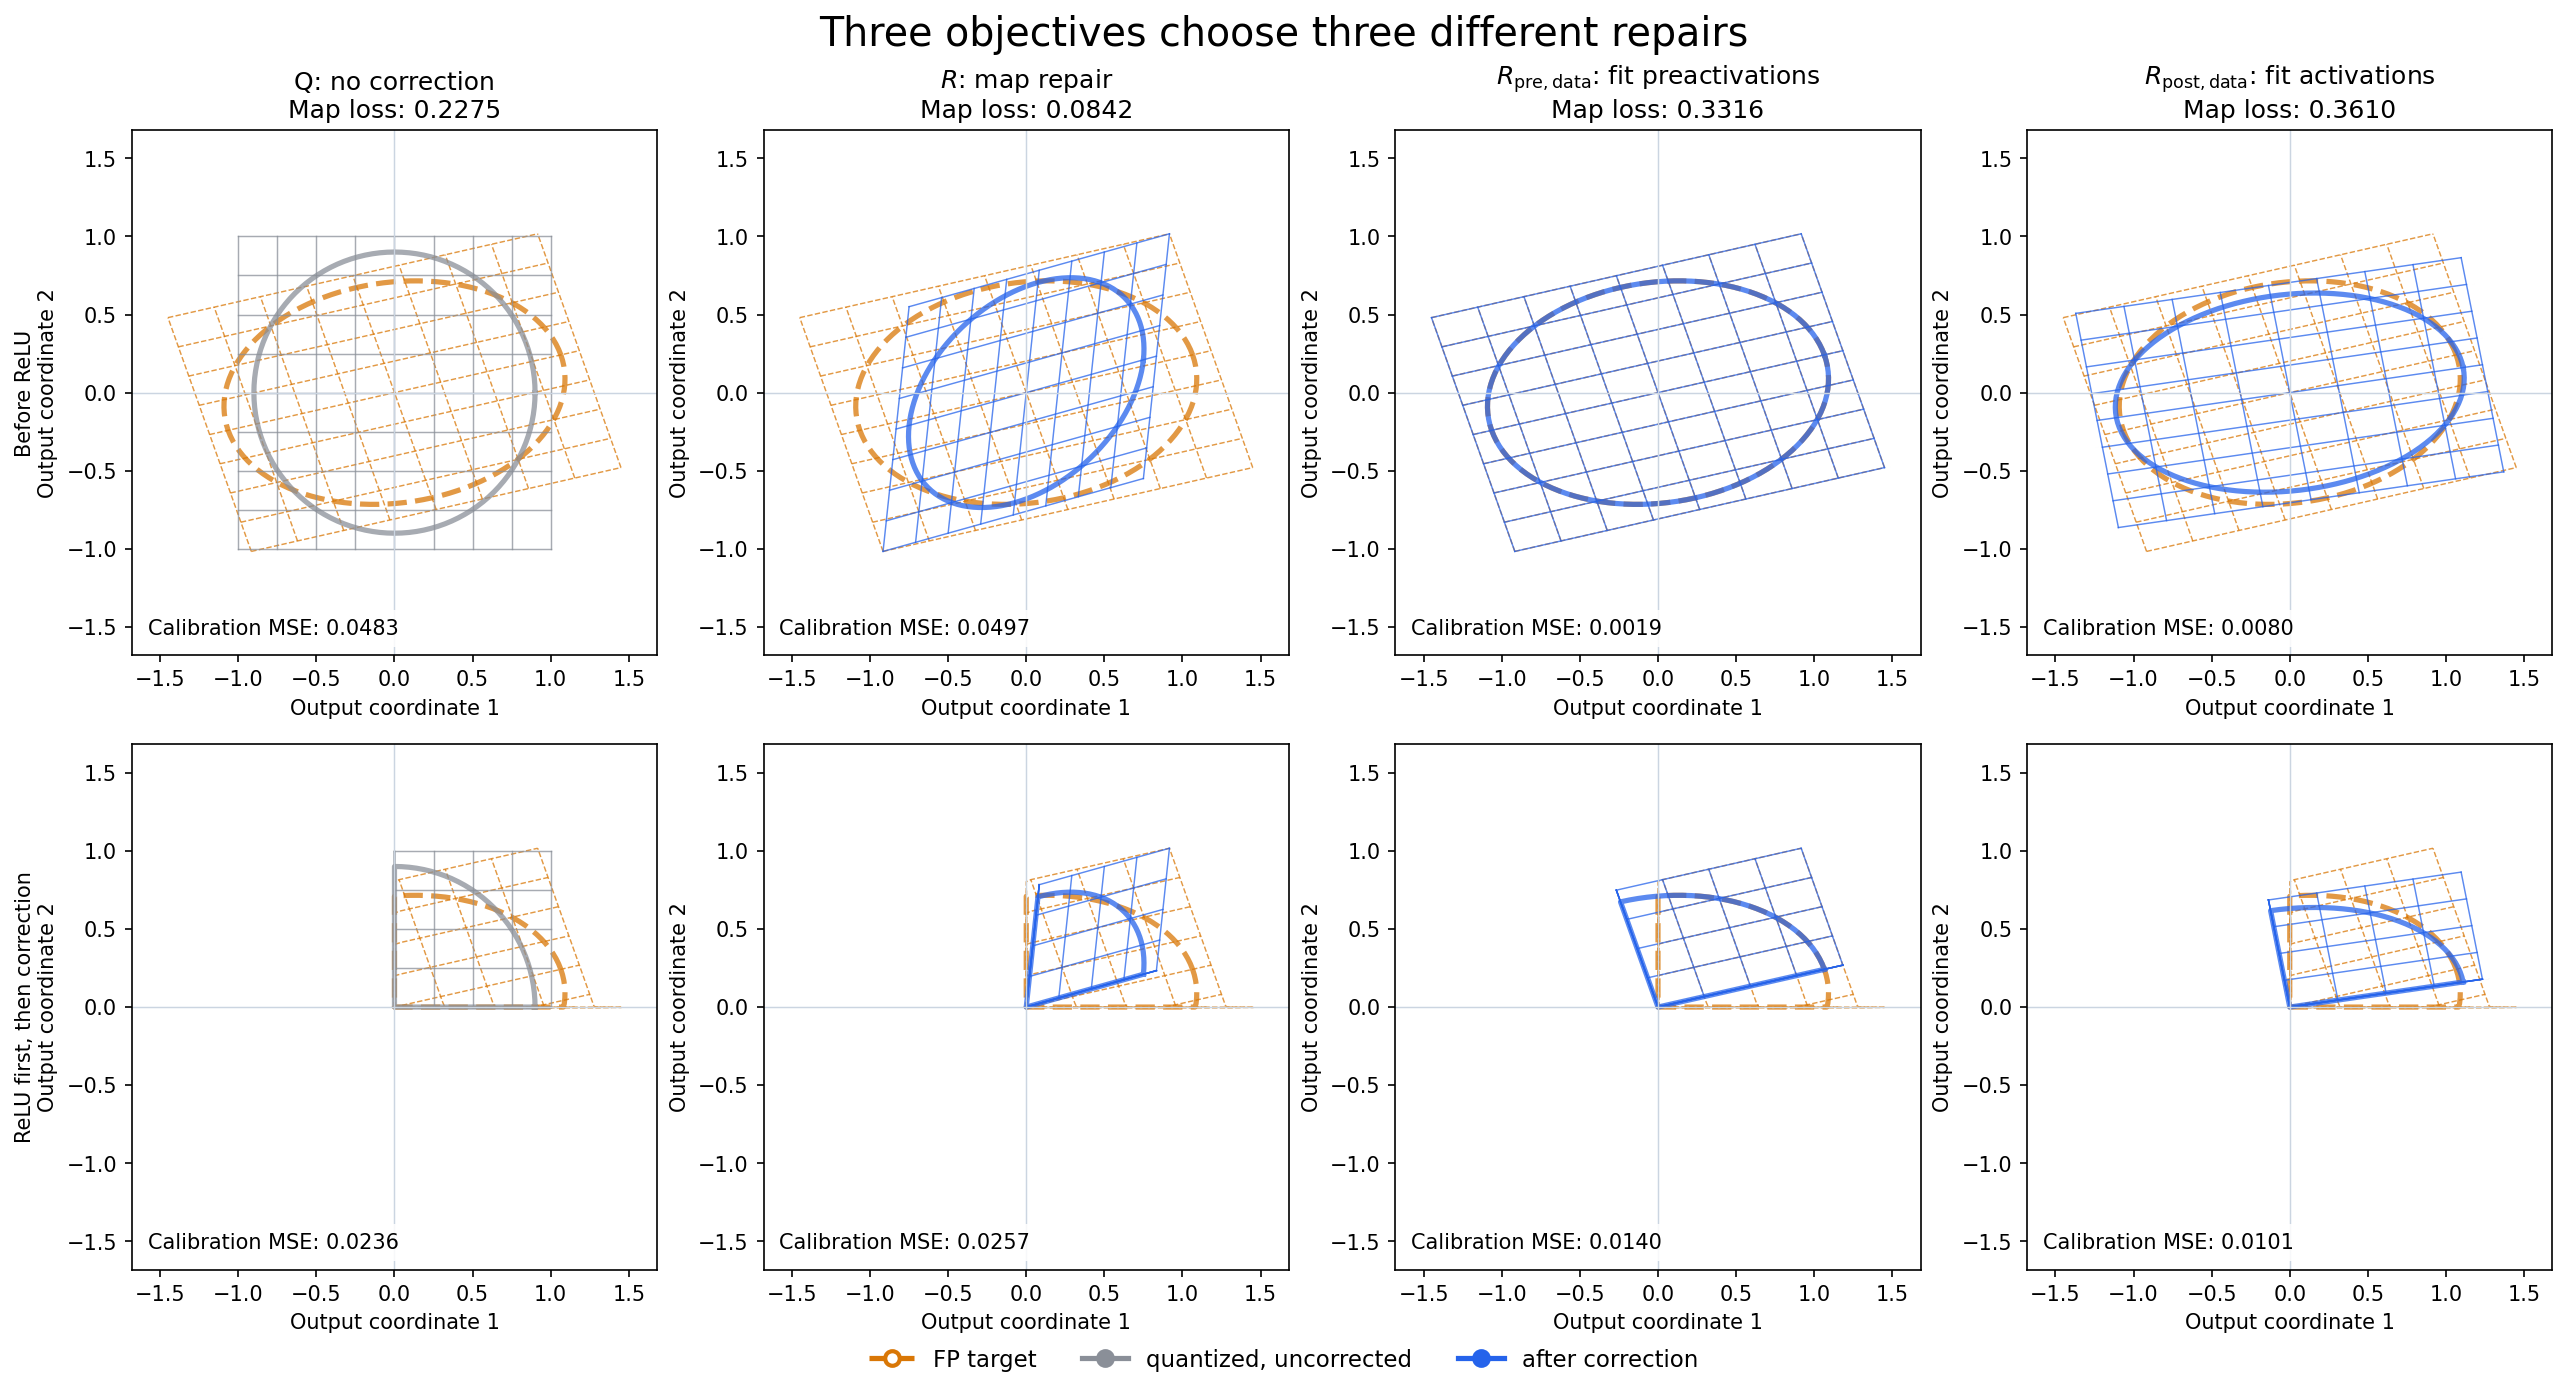
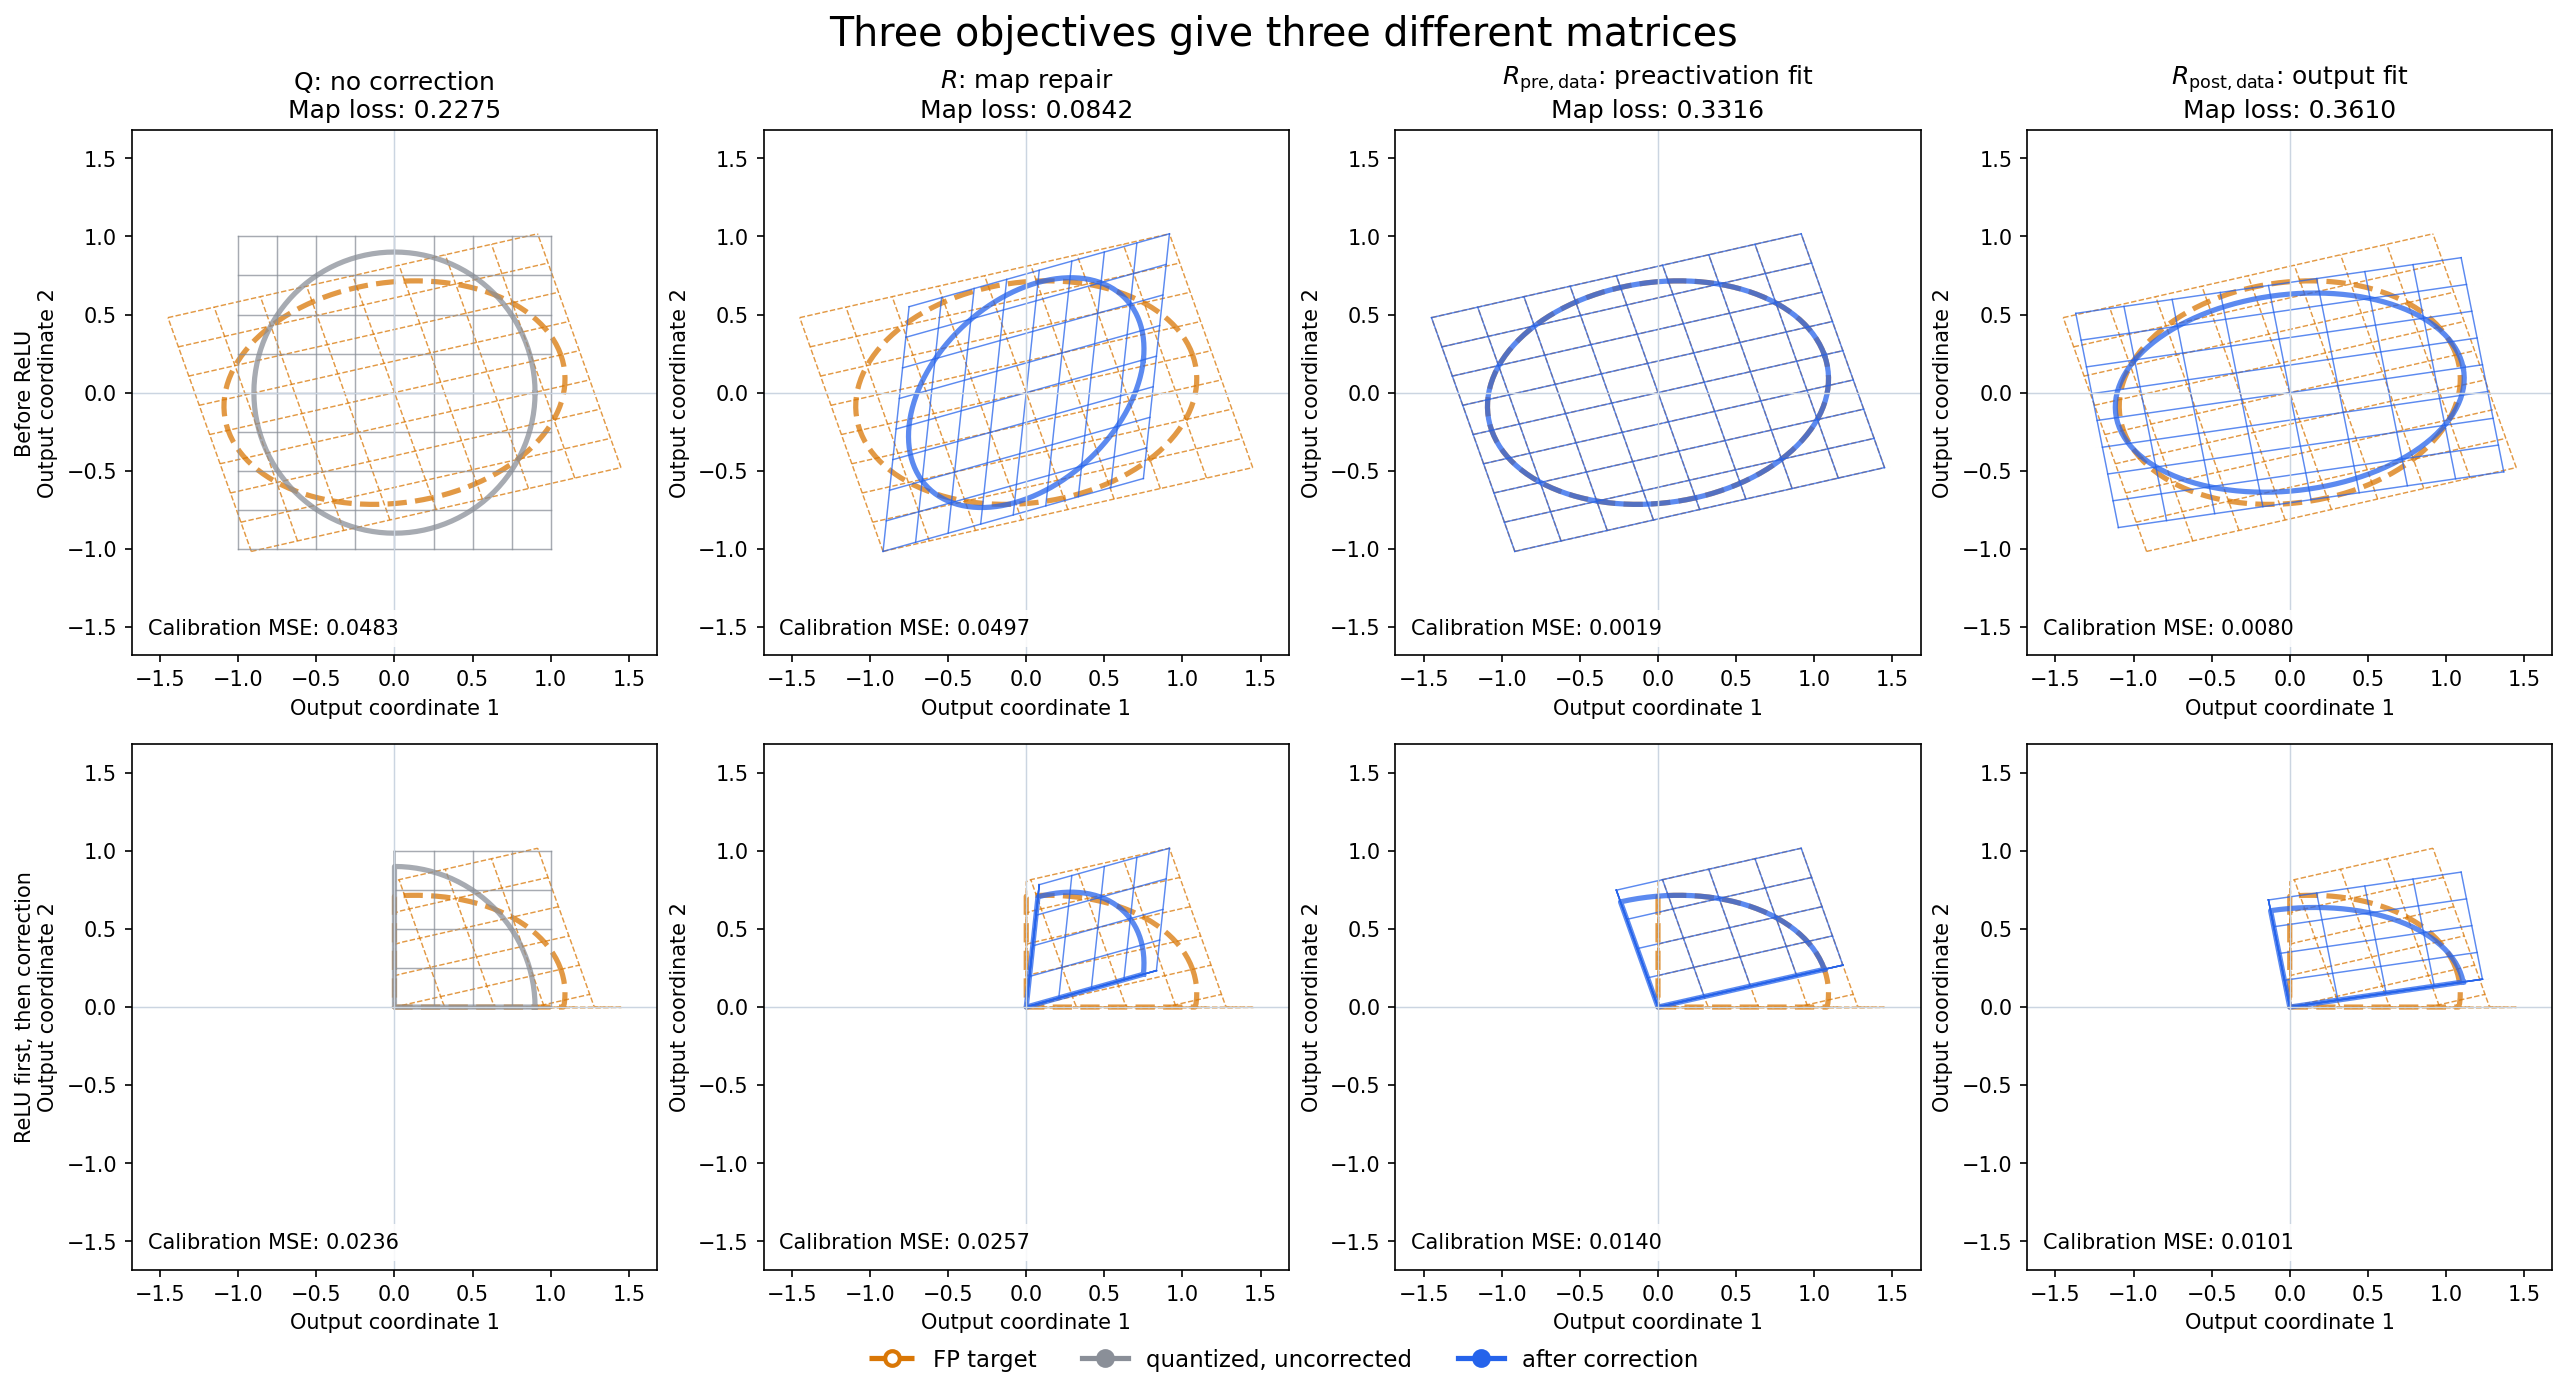
Name the two data fits preactivation fit and output fit everywhere

Changed region(s): [[0.3116, 0.0, 0.7168, 0.0618], [0.8414, 0.0309, 0.9349, 0.0618]]

diff --git a/experiments/quant_geometry_reconstruction_comparison.py b/experiments/quant_geometry_reconstruction_comparison.py
@@ -68,9 +68,9 @@ def main():
     center, radius = (low+high)/2, max(high-low)*.58
     bounds = tuple((c-radius, c+radius) for c in center)
     fig, axes = plt.subplots(2, 4, figsize=(17, 9.2), constrained_layout=True)
-    fig.suptitle("Three objectives choose three different repairs", fontsize=19)
+    fig.suptitle("Three objectives give three different matrices", fontsize=19)
     labels = ["Q: no correction", r"$R$: map repair",
-              r"$R_{\rm pre,data}$: fit preactivations", r"$R_{\rm post,data}$: fit activations"]
+              r"$R_{\rm pre,data}$: preactivation fit", r"$R_{\rm post,data}$: output fit"]
     for row, states in enumerate(rows):
         for column, state in enumerate(states):
             ax = axes[row, column]

diff --git a/docs/quant_geometry_foundations.md b/docs/quant_geometry_foundations.md
@@ -229,7 +229,7 @@ $c_{\rm local}$ is the Section 6 ledger applied to the input the layer actually 
 
 ## 9. Comparison: fitting a correction to calibration data
 
-The ledger chooses $R$ from the weights alone. The usual alternative fits a correction to the errors observed on a calibration set $\mathcal D$. With the same full-precision linear correction and the same layer $W_2$, two such fits are
+The ledger chooses $R$ from the weights alone. The usual alternative fits a correction to the errors observed on a calibration set $\mathcal D$. With the same full-precision linear correction and the same layer $W_2$, the two natural choices are the **preactivation fit** and the **output fit**:
 
 $$
 R_{\rm pre,data}\in\operatorname{argmin}_R\sum_{x\in\mathcal D}\|xW_qR-xW\|^2,\qquad
@@ -239,12 +239,12 @@ $$
 | Correction | Objective | What it uses |
 |---|---|---|
 | $R$ (map repair) | $\lVert W-W_qR\rVert_F^2$ | the weights alone; every input direction weighted equally |
-| $R_{\rm pre,data}$ | preactivation error on $\mathcal D$ | the input distribution and its correlations |
-| $R_{\rm post,data}$ | output error on $\mathcal D$ | the outputs after ReLU, and whatever correlations survive ReLU |
+| $R_{\rm pre,data}$ (preactivation fit) | preactivation error on $\mathcal D$ | the input distribution and its correlations |
+| $R_{\rm post,data}$ (output fit) | output error on $\mathcal D$ | the outputs after ReLU, and whatever correlations survive ReLU |
 
-All three are least-squares fits, but they answer different questions. The data fits find the matrix that best reproduces FP outputs on this data. They do not say which part of the quantization error that matrix removes, and their loss cannot tell you.
+All three are least-squares fits, but they answer different questions. The two data fits find the matrix that best reproduces FP outputs on this data. They do not say which part of the quantization error that matrix removes, and their loss cannot tell you.
 
-![Four columns compare Q, map repair, preactivation data fit, and output data fit, before and after ReLU](figures/quant_geometry/geometry_repair_vs_reconstruction.png)
+![Four columns compare Q, map repair, preactivation fit, and output fit, before and after ReLU](figures/quant_geometry/geometry_repair_vs_reconstruction.png)
 
 **Figure 9 — three objectives give three different matrices.** The columns show Q with no correction, then the three fitted matrices. The top row applies each matrix to the quantized preactivation; the bottom row applies it to the quantized output after ReLU. The calibration inputs are correlated with the flattened direction $d$ (construction in [B.6](#b6-calibration-set-for-figure-9)), so on this data the FP output along $d$ can be partly predicted from the quantized output. The grid and circle show a subset of the inputs; the fits use the full calibration set.
 
@@ -254,8 +254,8 @@ On this example:
 |---|---|---|
 | Q, no correction | 0.228 | 0.0236 |
 | $R$ (map repair) | **0.084** | 0.0257 |
-| $R_{\rm pre,data}$ | 0.332 | 0.0140 |
-| $R_{\rm post,data}$ | 0.361 | **0.0101** |
+| $R_{\rm pre,data}$ (preactivation fit) | 0.332 | 0.0140 |
+| $R_{\rm post,data}$ (output fit) | 0.361 | **0.0101** |
 
 The output fit has the lowest calibration error, yet its corrected map $W_qR_{\rm post,data}$ is **further from $W$ than $W_q$ is**. It does not undo the quantization error. It finds a different matrix, which uses correlations in this calibration set to predict the FP output, including the part along the direction $W_q$ flattens. That prediction only holds as long as those correlations do. The map repair is the reverse: it is the closest to $W$, but on this calibration set it does slightly worse than no correction, both before ReLU (MSE $0.0497$ versus $0.0483$) and after it. The calibration inputs are concentrated along the flattened direction, and the map objective gives that direction no extra weight.
 

diff --git a/docs/quant_geometry_implementation.md b/docs/quant_geometry_implementation.md
@@ -79,7 +79,7 @@ MPLCONFIGDIR=/tmp/qgeom-mpl XDG_CACHE_HOME=/tmp/qgeom-cache .venv/bin/python -m 
 
 The scalar-measurement command produces the weight-direction/fiber figure and `scalar_measurement_fixture.json`, with the exact weights, repair gain, residual and A/B responses. The rectangular-measurement command produces the 3→2 measured-plane/fiber figure and `rectangular_measurement_fixture.json`, recording both ranks, the nonzero Q singular values, and exact C/D states. The visual-story command produces three geometric storyboards and exact endpoint data. The ledger-figure command draws the forward Q→FP repair account (Figures 3, 4, 6, 7), the incoming/local/oracle balance (Figure 8), and `repair_ledger_figure_fixture.json` with exact endpoints and signed contributions. Historical `ledger_geometry_uncomp` / `ledger_geometry_nonlinear` / `ledger_geometry_range` filenames now contain the forward c_R / c_NL / c_U explanation. The reconstruction-comparison command produces the two-row/four-column `geometry_repair_vs_reconstruction.png` and `repair_vs_reconstruction_fixture.json`. It records all three repairs, the uncorrected baseline, all three objective values, and the input geometry. Outputs are under `docs/figures/quant_geometry/`.
 
-The comparison uses the full-rank 3→2 fixture from `build_rectangular_measurement_story`. The 2D grid/circle parameters specify a tilted 3D input sheet; offsets of −0.15, 0, and +0.15 along the Q blind direction give 2,577 calibration samples with rank-3 input data. All samples have equal weight, including duplicate intersections; the two named probe points are excluded on all three sheets. The pictures show the central sheet; reported losses use the whole cloud. Map, preactivation data, and post-ReLU data fits all use the same full-precision 2×2 correction family.
+The comparison uses the full-rank 3→2 fixture from `build_rectangular_measurement_story`. The 2D grid/circle parameters specify a tilted 3D input sheet; offsets of −0.15, 0, and +0.15 along the Q blind direction give 2,577 calibration samples with rank-3 input data. All samples have equal weight, including duplicate intersections; the two named probe points are excluded on all three sheets. The pictures show the central sheet; reported losses use the whole cloud. The map repair, preactivation fit, and output fit all use the same full-precision 2×2 correction family.
 
 The script checks each fit's normal equation, each optimizer's strict preference under its own objective, the analytic preactivation fit and its agreement with FP on the displayed central sheet, and the second-moment weighting identity. A separate isotropic preactivation fit recovers the map repair. This is a deterministic explanatory fixture, not a held-out correction experiment or a new runner API.
 

diff --git a/docs/quant_geometry_progress.md b/docs/quant_geometry_progress.md
@@ -46,7 +46,7 @@ The research note's single-layer argument is in a state we are happy with. Next 
 2. **Calibration fitting versus map repair (M5, and Section 9 of the note on real data).** Fit $R_{\rm pre,data}$ and $R_{\rm post,data}$ on a calibration split and evaluate on held-out data. For each correction, report map error $\lVert W-W_qR\rVert_F$, held-out output error, and which ledger terms it reduces. The toy example's claim to test: the data fit lowers calibration error while moving $W_qR$ further from $W$, and its gains do not transfer when input correlations change.
 3. **Ordered component propagation (L1)** only after 1–2, before interpreting where each term goes downstream. MNIST or transformers only after these protocols are validated.
 
-Small documentation leftovers: Figure 9's column label says "fit activations" where the note says "output fit"; Section 5 still uses "projection" and singular values without explanation; `quantization_geometry_plan.md` uses old term names (uncompensated/range) and its module-design sections describe code that now exists.
+Small documentation leftover: `quantization_geometry_plan.md` uses old term names (uncompensated/range) and its module-design sections describe code that now exists.
 
 ## Mathematical / protocol decisions
 
